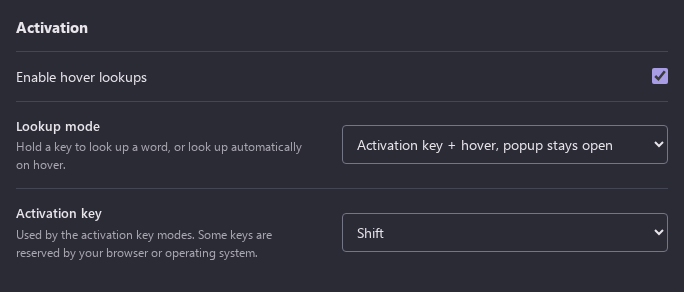
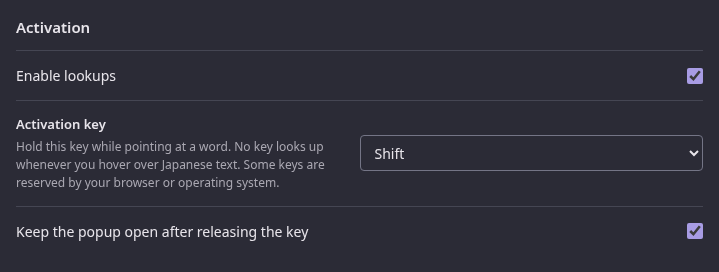
Offer No key first in the Activation key picker
Settings -> Reading -> Activation hid the existing no-key mode as the last
"Lookup mode" entry, "Hover", under a master switch labelled "Enable hover
lookups", so readers concluded a key was always required.

Follow Yomitan's "Scan modifier key": the Activation key picker lists No
key first. Choosing it writes only lookupMode "hover" and keeps the
remembered activationKey. A key writes activationSticky or activation from
a "Keep the popup open after releasing the key" switch, which is hidden
for No key and on when a key is chosen again. The master switch, and its
Toggle option keybind label, read "Enable lookups". Stored fields and the
browser default (Shift, popup stays open) are unchanged.

The real-Chrome suites drive the new controls; a new check covers the
No key round trip, and search for "no key" or "hover" finds the picker.

Part of #349

diff --git a/extension/settings.js b/extension/settings.js
@@ -70,7 +70,7 @@ const OPTION_SECTIONS = {
 };
 const LIBRARY_SECTIONS = new Set(["dictionaries", "add-dictionaries", "updates", "dictionary-groups", "custom-dictionary"]);
 const {
-  DEFAULT_OPTIONS, LOOKUP_MODES, ACTIVATION_KEYS, FREQUENCY_ORDERS,
+  DEFAULT_OPTIONS, ACTIVATION_KEYS, FREQUENCY_ORDERS,
   POPUP_THEME_GROUPS, DESIGN_OPTION_KEYS, DEFINITION_BLUR_DIRECTIONS, DEFINITION_BLUR_REVEALS,
   DEFINITION_BLUR_FREQUENCY_ORDERS, EXPERIMENTAL_FEATURES,
   clampOption, normaliseCustomButtons, normaliseKanjiSelection, normaliseOptions,
@@ -1701,13 +1701,18 @@ function renderOptions() {
   customButtonController?.render();
   const toolbar = element("opt-popup-toolbar");
   if (toolbar !== document.activeElement) toolbar.value = options.popupToolbarPosition;
-  const mode = element("opt-lookup-mode");
-  if (mode !== document.activeElement) mode.value = options.lookupMode;
+  // Yomitan's "Scan modifier key" lists No key first. Its empty value is never
+  // stored: it means lookupMode "hover" and keeps the remembered activationKey.
   const activation = element("opt-activation-key");
   if (activation.options.length === 0) {
+    activation.add(new Option("No key", ""));
     for (const key of ACTIVATION_KEYS) activation.add(new Option(key, key));
   }
-  if (activation !== document.activeElement) activation.value = options.activationKey;
+  if (activation !== document.activeElement) {
+    activation.value = options.lookupMode === "hover" ? "" : options.activationKey;
+  }
+  element("opt-lookup-sticky").checked = options.lookupMode !== "activation";
+  element("opt-lookup-sticky-row").hidden = options.lookupMode === "hover";
   renderFrequencyOrder();
   renderKanjiChoices();
   renderFrequencyChoices();
@@ -3328,14 +3333,21 @@ function attachHandlers() {
     options.popupImageSource = event.target.value ? JSON.parse(event.target.value) : null;
     writeOptions();
   });
-  element("opt-lookup-mode").addEventListener("change", (event) => {
-    options.lookupMode = LOOKUP_MODES.includes(event.target.value) ? event.target.value : "hover";
+  // The picker and the keep-open switch together choose one lookup mode, so
+  // either control's change reads both.
+  const writeActivation = () => {
+    const key = element("opt-activation-key").value;
+    if (key === "") {
+      options.lookupMode = "hover";
+    } else {
+      options.activationKey = key;
+      options.lookupMode = element("opt-lookup-sticky").checked ? "activationSticky" : "activation";
+    }
+    element("opt-lookup-sticky-row").hidden = key === "";
     writeOptions();
-  });
-  element("opt-activation-key").addEventListener("change", (event) => {
-    options.activationKey = event.target.value;
-    writeOptions();
-  });
+  };
+  element("opt-activation-key").addEventListener("change", writeActivation);
+  element("opt-lookup-sticky").addEventListener("change", writeActivation);
 
   element("opt-frequency-order").addEventListener("change", (event) => {
     options.frequencyOrder = FREQUENCY_ORDERS.includes(event.target.value) ? event.target.value : "auto";

diff --git a/extension/settings.html b/extension/settings.html
@@ -427,23 +427,18 @@
           <fieldset class="lookup-group">
             <legend>Activation</legend>
             <label class="lookup-enable">
-              <span>Enable hover lookups</span>
+              <span>Enable lookups</span>
               <input type="checkbox" id="opt-hover-enabled" />
             </label>
             <div class="fields">
               <label class="field">
-                <span class="field-label">Lookup mode</span>
-                <select id="opt-lookup-mode">
-                  <option value="activationSticky">Activation key + hover, popup stays open</option>
-                  <option value="activation">Activation key + hover, popup closes on release</option>
-                  <option value="hover">Hover</option>
-                </select>
-                <span class="field-hint">Hold a key to look up a word, or look up automatically on hover.</span>
-              </label>
-              <label class="field">
                 <span class="field-label">Activation key</span>
                 <select id="opt-activation-key"></select>
-                <span class="field-hint">Used by the activation key modes. Some keys are reserved by your browser or operating system.</span>
+                <span class="field-hint">Hold this key while pointing at a word. No key looks up whenever you hover over Japanese text. Some keys are reserved by your browser or operating system.</span>
+              </label>
+              <label class="lookup-enable" id="opt-lookup-sticky-row">
+                <span>Keep the popup open after releasing the key</span>
+                <input type="checkbox" id="opt-lookup-sticky" />
               </label>
             </div>
           </fieldset>

diff --git a/extension/keybind-settings.js b/extension/keybind-settings.js
@@ -3,7 +3,7 @@ import { reorderSettingsRows } from "./settings-dom.js";
 
 // Labels of the Settings controls that own each toggleable option.
 export const KEYBIND_OPTION_LABELS = {
-  hoverEnabled: "Enable hover lookups",
+  hoverEnabled: "Enable lookups",
   onlyScanJapaneseText: "Japanese text only",
   showNoResultNotice: "Show a popup when a selection has no definition",
   audioAutoplay: "Automatically play the first lookup result",

diff --git a/docs/architecture.md b/docs/architecture.md
@@ -598,9 +598,17 @@ key is released. `activation` instead closes the popup on release, and `hover`
 scans without a key. `reader-options.js` translates legacy
 `modifier` values into the canonical mode/key on read and accepts old Settings
 patches through the same revision CAS. Explicit modern fields win, and selecting
-Hover does not erase the remembered key. Canonical writes contain no competing
+No key does not erase the remembered key. Canonical writes contain no competing
 modifier policy. Letters, digits, punctuation, named browser keys and F1–F24 are
 supported; browser/OS-reserved keys remain subject to their native behavior.
+
+Settings → Reading → Activation shows these stored fields the way Yomitan's
+Scanning settings do. **Enable lookups** is `hoverEnabled`, the same switch as
+the toolbar's Japanese lookups and the toggle shortcut. The **Activation key**
+picker lists **No key** first: it writes only `lookupMode: "hover"`, and a key
+writes `activationKey` with `activationSticky` or `activation` as **Keep the
+popup open after releasing the key** says. That switch is hidden for No key and
+on when a key is chosen again.
 
 The existing 0–2,000 ms open delay defaults to 50 ms and also applies to a key
 pressed over a stationary pointer. Hide/transfer delay defaults to the existing
@@ -636,7 +644,7 @@ dispatched Note append finishes its transaction without reopening or refreshing
 the disabled reader. Settings changes reach existing tabs and persist through a
 full browser restart without reloading the engine.
 
-![Lookup mode and activation key in Settings](assets/reader-activation-settings.png)
+![Enable lookups, the Activation key picker and the keep-open switch in Settings](assets/reader-activation-settings.png)
 
 ### Keybinds
 
@@ -1665,7 +1673,8 @@ keeps all fourteen task views available and groups those five Library choices.
 Global search matches settings across every section, includes the Library
 hierarchy in matching and result breadcrumbs, opens a result's enclosing
 disclosures and focuses its control without changing values or discarding drafts.
-The activation-key selector remains editable in either lookup mode.
+The Activation key picker stays editable in every lookup mode, and search finds
+it by "no key" or "hover".
 All sections stay mounted, so navigation and browser history preserve reader
 and personal-dictionary drafts. Personal source loads on first entering its section.
 The rail becomes a compact section chooser in narrow windows. Settings applies

diff --git a/docs/overlay-mode.md b/docs/overlay-mode.md
@@ -34,7 +34,7 @@ normal first-install preferences plus:
 
 | Option | Value | Settings control |
 | --- | --- | --- |
-| `lookupMode` | `"hover"` | Lookup → Activation → Lookup mode → Hover |
+| `lookupMode` | `"hover"` | Reading → Activation → Activation key → No key |
 | `sourceHighlightEnabled` | `false` | Design → Highlight the word on the page |
 | every `anki.templates[].captureScreenshot` | `false` | Anki → Screenshot the page when mining |
 
@@ -173,10 +173,10 @@ the worker download endpoint checks the actual API.
 
 `node test/chrome-overlay.mjs` loads a copy of the extension with the flag set
 into a real Chrome, over a page that boxes glyphs the way GameSentenceMiner
-does. It checks the Settings capability matrix, editable Custom buttons,
-rendered link and Anki buttons, and backend guards before checking glyph
-selection, the pencil for an unknown selection, and the host events around a
-drag.
+does. It checks the Settings capability matrix, the seeded No key choice,
+editable Custom buttons, rendered link and Anki buttons, and backend guards
+before checking glyph selection, the pencil for an unknown selection, and the
+host events around a drag.
 
 `test/electron-backup.cjs` exercises export, download cancellation and restore in
 a sandboxed Electron window without Chrome's downloads API. With Electron 43.4.1

diff --git a/test/README.md b/test/README.md
@@ -1441,9 +1441,11 @@ supplementary Unicode characters when the caret lands after the glyph.
 The real browser also changes hover enablement and activation controls from
 Settings while the reading tab remains open. It proves close/re-enable without
 engine reload, stationary printable-key activation with open delay, delayed hide
-on release, and cancellation of a quick press/release. A non-default key is kept
-when switching back to Hover and checked with mode, enablement and hide delay
-after the full browser restart.
+on release, and cancellation of a quick press/release. Choosing No key stores
+Hover, hides the keep-open switch and opens a popup on plain hover; choosing the
+key again restores it with the popup staying open, and the switch selects the
+closing mode. A non-default key is kept behind No key and checked with mode,
+enablement and hide delay after the full browser restart.
 
 Exact-selection checks first use a plain cross-inline mouse drag with Shift
 configured and prove that it sends no worker lookup, paints no source highlight

diff --git a/docs/asbplayer.md b/docs/asbplayer.md
@@ -13,8 +13,8 @@ from other extensions. If a popup disappears in fullscreen, exit fullscreen or
 use the web app's subtitle list.
 
 By default, hold **Shift** while hovering a subtitle. To look up words without
-holding a key, choose **Hover** under Hachidori **Settings → Reading → Lookup
-mode**. In asbplayer's **Misc** settings, **Auto-pause when mousing over
+holding a key, choose **No key** under Hachidori **Settings → Reading → Activation
+key**. In asbplayer's **Misc** settings, **Auto-pause when mousing over
 subtitles** lets you read a popup while the video is paused. Its auto-resume
 option resumes playback when you move away. If subtitle blur is enabled in
 asbplayer, hovering will also unblur the subtitle.
